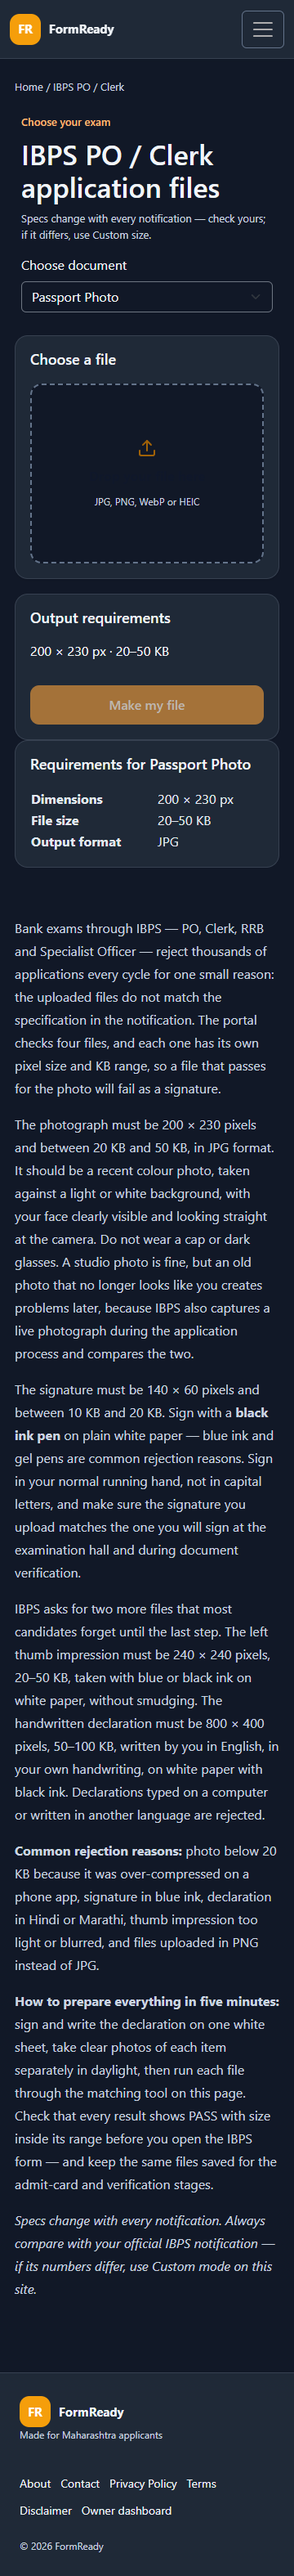
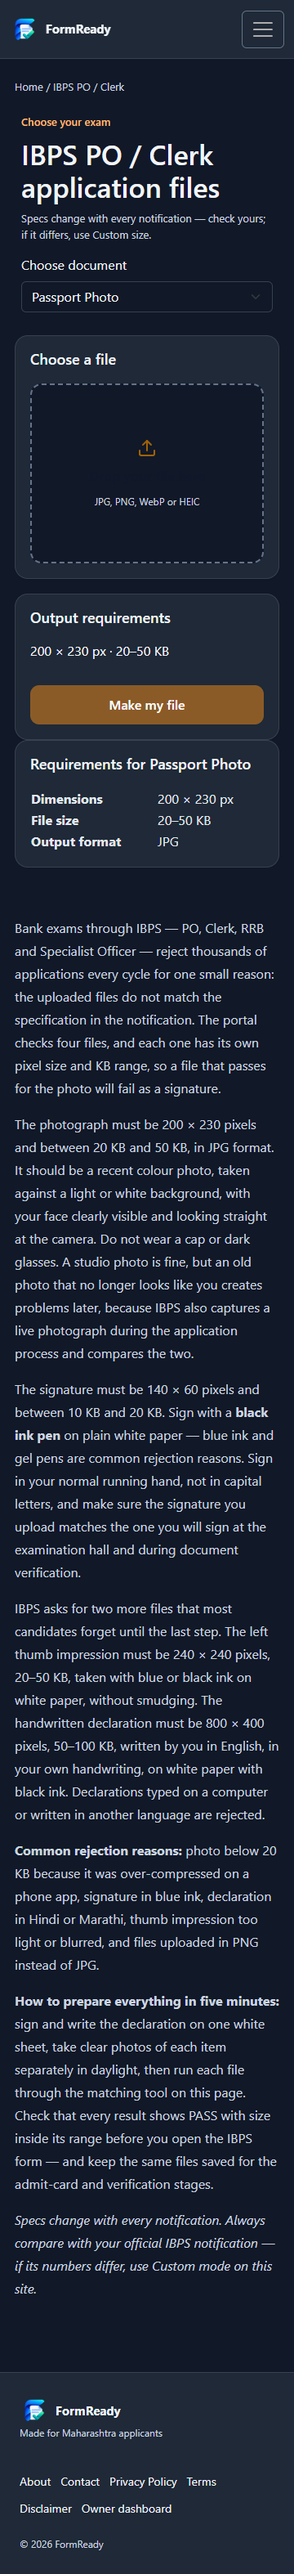
Polish dark theme and account purchase flow

diff --git a/src/App.jsx b/src/App.jsx
@@ -1,13 +1,13 @@
 import{useState,useEffect}from'react';import{BrowserRouter,Routes,Route,Link,useParams,useNavigate,useLocation}from'react-router-dom';import{FileImage,FileText,ShieldCheck,Download,Upload,Menu,Check,Languages,Scissors,Package,ArrowRight,Moon,Sun}from'lucide-react';import{presets,notice}from'./data/presets';import{strings}from'./data/strings';import guides from'./data/guides.json';import{config}from'./config';import AdSlot from'./components/AdSlot';import ConsentScripts from'./components/ConsentScripts';import Seo from'./components/Seo';import CroppableTool from'./components/CroppableTool';import ExamPack from'./components/ExamPack';import DocumentTools from'./components/DocumentTools';import PaymentButton from'./components/PaymentButton';import HomePage from'./components/HomePage';import{AccountPage,AdminPage}from'./components/AccountPages';import{supabase,accountsEnabled}from'./lib/supabase';import{setAccountAccessHint,clearAccountAccessHint}from'./lib/accessHint';
 function ScrollToTop(){const{pathname}=useLocation();useEffect(()=>{window.scrollTo({top:0,left:0,behavior:'instant'})},[pathname]);return null}
-function App(){const[lang,setLang]=useState(localStorage.getItem('fr-lang')||'mr'),[consent,setConsent]=useState(localStorage.getItem('fr-consent')),[unlock,setUnlock]=useState(JSON.parse(localStorage.getItem('fr-unlock')||'null')),[tourOpen,setTourOpen]=useState(!localStorage.getItem('fr-tour-seen-v1')),[theme,setTheme]=useState(localStorage.getItem('fr-theme')||'light');const[session,setSession]=useState(null),[authReady,setAuthReady]=useState(!accountsEnabled);const user=session?.user||null;const t=strings[lang]||strings.mr;useEffect(()=>{document.documentElement.dataset.theme=theme;localStorage.setItem('fr-theme',theme)},[theme]);useEffect(()=>{if(!supabase)return;supabase.auth.getSession().then(({data})=>{setSession(data.session);setAuthReady(true)});const{data:{subscription}}=supabase.auth.onAuthStateChange((_event,next)=>{setSession(next);setAuthReady(true);if(next){localStorage.removeItem('fr-unlock');setUnlock(null)}});return()=>subscription.unsubscribe()},[]);useEffect(()=>{if(!accountsEnabled)return;if(!session?.user){clearAccountAccessHint();return}let alive=true;fetch('/api/payments/access',{method:'POST',headers:{Authorization:`Bearer ${session.access_token}`}}).then(async response=>{if(response.ok){const value=await response.json();if(alive)setAccountAccessHint(session.user.id,value.expiresAt)}else if(response.status===401&&alive)clearAccountAccessHint()}).catch(()=>{});return()=>{alive=false}},[session?.user?.id,session?.access_token]);useEffect(()=>{if(!('serviceWorker'in navigator))return;const hadController=Boolean(navigator.serviceWorker.controller);let refreshing=false;const onControllerChange=()=>{if(hadController&&!refreshing){refreshing=true;window.location.reload()}};navigator.serviceWorker.addEventListener('controllerchange',onControllerChange);navigator.serviceWorker.register('/sw.js',{updateViaCache:'none'}).then(registration=>registration.update()).catch(()=>{});return()=>navigator.serviceWorker.removeEventListener('controllerchange',onControllerChange)},[]);function setLanguage(l){localStorage.setItem('fr-lang',l);setLang(l)}const languageName={en:'English',hi:'हिन्दी',mr:'मराठी'}[lang]||'मराठी';return <BrowserRouter><ScrollToTop/><ConsentScripts accepted={consent==='accepted'}/><Seo lang={lang}/><header className="navbar navbar-expand-lg bg-white border-bottom sticky-top app-navbar"><div className="container"><Link className="navbar-brand brand" to="/" onClick={()=>window.scrollTo({top:0,behavior:'smooth'})}><span className="logo">FR</span><span>FormReady<small>{t.tagline}</small></span></Link><button className="navbar-toggler" type="button" data-bs-toggle="collapse" data-bs-target="#primary-navigation" aria-controls="primary-navigation" aria-expanded="false" aria-label={t.menu}><span className="navbar-toggler-icon"/></button><div className="collapse navbar-collapse" id="primary-navigation"><nav className="navbar-nav ms-auto me-lg-3"><Link className="nav-link" to="/" onClick={()=>window.scrollTo({top:0,behavior:'smooth'})}>{t.home}</Link><Link className="nav-link" to="/exam-pack">{t.examPack}</Link><Link className="nav-link" to="/pricing">{t.pricing}</Link><Link className="nav-link" to="/account">{user?t.accountTitle:t.signInTitle}</Link></nav><button type="button" className="btn btn-outline-secondary theme-toggle" aria-label={theme==='dark'?t.lightMode:t.darkMode} title={theme==='dark'?t.lightMode:t.darkMode} onClick={()=>setTheme(theme==='dark'?'light':'dark')}>{theme==='dark'?<Sun size={17}/>:<Moon size={17}/>}<span>{theme==='dark'?t.lightMode:t.darkMode}</span></button><button type="button" className="btn btn-outline-secondary tour-open" onClick={()=>setTourOpen(true)}>{t.tourOpen}</button><div className="dropdown language-menu"><button className="btn language-toggle dropdown-toggle" type="button" data-bs-toggle="dropdown" aria-expanded="false" aria-label={`${t.languageLabel||'Language'}: ${languageName}`}><Languages size={17}/><span>{languageName}</span></button><ul className="dropdown-menu dropdown-menu-end language-options"><li><span className="dropdown-header">{t.languageLabel||'Language'}</span></li>{[['en','English'],['hi','हिन्दी'],['mr','मराठी']].map(([code,label])=><li key={code}><button type="button" className={`dropdown-item d-flex align-items-center justify-content-between ${lang===code?'active':''}`} lang={code} aria-current={lang===code?'true':undefined} onClick={()=>setLanguage(code)}><span>{label}</span>{lang===code&&<Check size={16}/>}</button></li>)}</ul></div></div></div></header><Routes><Route path="/" element={<HomePage t={t}/>}/><Route path="/tool/:presetId" element={<Preset t={t}/>}/><Route path="/exam-pack" element={<ExamPack t={t} unlock={unlock} setUnlock={setUnlock} session={session} user={user} authReady={authReady}/>}/><Route path="/account" element={<AccountPage user={user} session={session} supabase={supabase} t={t}/>}/><Route path="/admin" element={<AdminPage user={user} session={session} t={t}/>}/><Route path="/pricing" element={<Pricing t={t} setUnlock={setUnlock} session={session} user={user}/>}/>{['about','contact','privacy-policy','terms','disclaimer'].map(p=><Route key={p} path={'/'+p} element={<Legal page={p} t={t}/>}/>)}</Routes><Footer t={t}/>{tourOpen&&<Walkthrough t={t} close={()=>{localStorage.setItem('fr-tour-seen-v1','1');setTourOpen(false)}}/>}{!consent&&<div className="consent"><span>{t.consent}</span><button onClick={()=>{localStorage.setItem('fr-consent','accepted');setConsent('accepted')}}>{t.accept}</button><button onClick={()=>{localStorage.setItem('fr-consent','declined');setConsent('declined')}}>{t.decline}</button></div>}</BrowserRouter>}
+function App(){const[lang,setLang]=useState(localStorage.getItem('fr-lang')||'mr'),[consent,setConsent]=useState(localStorage.getItem('fr-consent')),[unlock,setUnlock]=useState(JSON.parse(localStorage.getItem('fr-unlock')||'null')),[tourOpen,setTourOpen]=useState(!localStorage.getItem('fr-tour-seen-v1')),[theme,setTheme]=useState(localStorage.getItem('fr-theme')||'light');const[session,setSession]=useState(null),[authReady,setAuthReady]=useState(!accountsEnabled);const user=session?.user||null;const t=strings[lang]||strings.mr;useEffect(()=>{document.documentElement.dataset.theme=theme;localStorage.setItem('fr-theme',theme)},[theme]);useEffect(()=>{if(!supabase)return;supabase.auth.getSession().then(({data})=>{setSession(data.session);setAuthReady(true)});const{data:{subscription}}=supabase.auth.onAuthStateChange((_event,next)=>{setSession(next);setAuthReady(true);if(next){localStorage.removeItem('fr-unlock');setUnlock(null)}});return()=>subscription.unsubscribe()},[]);useEffect(()=>{if(!accountsEnabled)return;if(!session?.user){clearAccountAccessHint();return}let alive=true;fetch('/api/payments/access',{method:'POST',headers:{Authorization:`Bearer ${session.access_token}`}}).then(async response=>{if(response.ok){const value=await response.json();if(alive)setAccountAccessHint(session.user.id,value.expiresAt)}else if(response.status===401&&alive)clearAccountAccessHint()}).catch(()=>{});return()=>{alive=false}},[session?.user?.id,session?.access_token]);useEffect(()=>{if(!('serviceWorker'in navigator))return;const hadController=Boolean(navigator.serviceWorker.controller);let refreshing=false;const onControllerChange=()=>{if(hadController&&!refreshing){refreshing=true;window.location.reload()}};navigator.serviceWorker.addEventListener('controllerchange',onControllerChange);navigator.serviceWorker.register('/sw.js',{updateViaCache:'none'}).then(registration=>registration.update()).catch(()=>{});return()=>navigator.serviceWorker.removeEventListener('controllerchange',onControllerChange)},[]);function setLanguage(l){localStorage.setItem('fr-lang',l);setLang(l)}const languageName={en:'English',hi:'हिन्दी',mr:'मराठी'}[lang]||'मराठी';return <BrowserRouter><ScrollToTop/><ConsentScripts accepted={consent==='accepted'}/><Seo lang={lang}/><header className="navbar navbar-expand-lg bg-white border-bottom sticky-top app-navbar"><div className="container"><Link className="navbar-brand brand" to="/" onClick={()=>window.scrollTo({top:0,behavior:'smooth'})}><img className="brand-logo" src="/favicon.png" alt="" width="40" height="40"/><span>FormReady<small>{t.tagline}</small></span></Link><button className="navbar-toggler" type="button" data-bs-toggle="collapse" data-bs-target="#primary-navigation" aria-controls="primary-navigation" aria-expanded="false" aria-label={t.menu}><span className="navbar-toggler-icon"/></button><div className="collapse navbar-collapse" id="primary-navigation"><nav className="navbar-nav ms-auto me-lg-3"><Link className="nav-link" to="/" onClick={()=>window.scrollTo({top:0,behavior:'smooth'})}>{t.home}</Link><Link className="nav-link" to="/exam-pack">{t.examPack}</Link><Link className="nav-link" to="/pricing">{t.pricing}</Link><Link className="nav-link" to="/account">{user?t.accountTitle:t.signInTitle}</Link></nav><button type="button" className="btn btn-outline-secondary theme-toggle" aria-label={theme==='dark'?t.lightMode:t.darkMode} title={theme==='dark'?t.lightMode:t.darkMode} onClick={()=>setTheme(theme==='dark'?'light':'dark')}>{theme==='dark'?<Sun size={17}/>:<Moon size={17}/>}<span>{theme==='dark'?t.lightMode:t.darkMode}</span></button><button type="button" className="btn btn-outline-secondary tour-open" onClick={()=>setTourOpen(true)}>{t.tourOpen}</button><div className="dropdown language-menu"><button className="btn language-toggle dropdown-toggle" type="button" data-bs-toggle="dropdown" aria-expanded="false" aria-label={`${t.languageLabel||'Language'}: ${languageName}`}><Languages size={17}/><span>{languageName}</span></button><ul className="dropdown-menu dropdown-menu-end language-options"><li><span className="dropdown-header">{t.languageLabel||'Language'}</span></li>{[['en','English'],['hi','हिन्दी'],['mr','मराठी']].map(([code,label])=><li key={code}><button type="button" className={`dropdown-item d-flex align-items-center justify-content-between ${lang===code?'active':''}`} lang={code} aria-current={lang===code?'true':undefined} onClick={()=>setLanguage(code)}><span>{label}</span>{lang===code&&<Check size={16}/>}</button></li>)}</ul></div></div></div></header><Routes><Route path="/" element={<HomePage t={t}/>}/><Route path="/tool/:presetId" element={<Preset t={t}/>}/><Route path="/exam-pack" element={<ExamPack t={t} unlock={unlock} setUnlock={setUnlock} session={session} user={user} authReady={authReady}/>}/><Route path="/account" element={<AccountPage user={user} session={session} supabase={supabase} t={t}/>}/><Route path="/admin" element={<AdminPage user={user} session={session} t={t}/>}/><Route path="/pricing" element={<Pricing t={t} setUnlock={setUnlock} session={session} user={user}/>}/>{['about','contact','privacy-policy','terms','disclaimer'].map(p=><Route key={p} path={'/'+p} element={<Legal page={p} t={t}/>}/>)}</Routes><Footer t={t}/>{tourOpen&&<Walkthrough t={t} close={()=>{localStorage.setItem('fr-tour-seen-v1','1');setTourOpen(false)}}/>}{!consent&&<div className="consent"><span>{t.consent}</span><button onClick={()=>{localStorage.setItem('fr-consent','accepted');setConsent('accepted')}}>{t.accept}</button><button onClick={()=>{localStorage.setItem('fr-consent','declined');setConsent('declined')}}>{t.decline}</button></div>}</BrowserRouter>}
 function Preset({t}){const{presetId:id}=useParams(),preset=presets.find(p=>p.id===id),[slot,setSlot]=useState(0);return <main className="container app-main"><p className="crumb"><Link to="/">{t.homeCrumb}</Link> / {t[`preset_${preset?.id}`]||preset?.name||id}</p>{id==='pdf'?<DocumentTools t={t}/>:!preset&&id!=='custom'?<section><h1>{t.toolNotFound}</h1><Link to="/">{t.returnHome}</Link></section>:<><section className="tool-heading row g-3 align-items-end"><div className="col-lg"><span className="eyebrow">{t.chooseExam}</span><h1>{id==='custom'?t.customTool:`${t[`preset_${preset?.id}`]||preset?.name} ${t.applicationFiles}`}</h1><p>{t.notice}</p></div><label className="col-lg-4">{t.chooseDocument}<select className="form-select" value={slot} onChange={e=>setSlot(+e.target.value)}>{(preset?.slots||[{id:'custom',label:'Image'}]).map((s,i)=><option key={s.id} value={i}>{t[`doc_${s.id}`]||s.label}</option>)}</select></label></section>{preset?.slots[slot]?.id==='certificate'?<DocumentTools t={t} target={preset.slots[slot].maxKB}/>:<CroppableTool t={t} spec={preset?.slots[slot]}/>}<AdSlot slot="results-below" label={t.ad}/>{preset&&<SpecTable p={preset} slot={slot} t={t}/>}{preset&&<Guide p={preset}/>}<AdSlot slot="seo-article-mid" label={t.ad}/></>}</main>}
 function SpecTable({p,slot,t}){const s=p.slots[slot];return <section className="card spec-summary"><h2>{t.requirementsFor} {t[`doc_${s.id}`]||s.label}</h2><table><tbody><tr><th>{t.dimensions}</th><td>{s.width} × {s.height} px</td></tr><tr><th>{t.fileSize}</th><td>{s.minKB}–{s.maxKB} KB</td></tr><tr><th>{t.outputFormat}</th><td>JPG</td></tr></tbody></table></section>}
 function Guide({p}){const blocks=(guides[p?.id]||'').split(/\n\s*\n/).filter(Boolean);function inline(text){return text.split(/(\*\*.*?\*\*|\*.*?\*)/g).map((part,i)=>part.startsWith('**')&&part.endsWith('**')?<strong key={i}>{part.slice(2,-2)}</strong>:part.startsWith('*')&&part.endsWith('*')?<em key={i}>{part.slice(1,-1)}</em>:part)}return <article className="guide">{blocks.map((b,i)=><p key={i}>{inline(b.replace(/\n/g,' '))}</p>)}</article>}
 function PdfTool({t,target=200}){const[file,setFile]=useState(null),[result,setResult]=useState(null),[kb,setKb]=useState(target),[err,setErr]=useState('');async function run(){try{const{compressPdf}=await import('./lib/pdfTools');const r=await compressPdf(file,+kb);setResult(r);setErr(r.pass?'':`${t.targetWas} ${kb} KB.`)}catch{setErr(t.couldNotOpenPdf)}}return <section className="card pdf-tool"><h2>{t.pdfTitle}</h2><p>{t.pdfIntro}</p><label>{t.chooseFile}<input className="form-control" type="file" accept="application/pdf" onChange={e=>setFile(e.target.files[0])}/></label><label>{t.targetSize}<input className="form-control" type="number" value={kb} onChange={e=>setKb(e.target.value)}/></label><button className="primary btn btn-warning" disabled={!file} onClick={run}>{t.compressPdf}</button>{result&&<p className={result.pass?'pass':'error'}>{t.before} {((file.size)/1024).toFixed(1)} KB → {t.after} {result.kb.toFixed(1)} KB {err}</p>}{result&&<a href={URL.createObjectURL(result.blob)} download="compressed.pdf">{t.download}</a>}</section>}
 const legalKey={'about':'about','contact':'contact','privacy-policy':'privacy','terms':'terms','disclaimer':'disclaimer'};
 function Legal({page,t}){const key=legalKey[page]||'about',title=t[`${key}Title`]||t[key],body=accountsEnabled&&key==='privacy'?t.accountPrivacyBody:accountsEnabled&&key==='terms'?t.accountTermsBody:t[`${key}Body`]||'',summary=accountsEnabled&&key==='privacy'?t.accountPrivacySummary:accountsEnabled&&key==='terms'?t.accountTermsSummary:t[`${key}Summary`];return <main className="legal container"><span className="eyebrow">FormReady</span><h1>{title}</h1>{summary&&<p className="legal-summary">{summary}</p>}<p>{body}</p>{page==='contact'&&/^\d{10,15}$/.test(config.whatsappNumber)&&<a className="primary btn btn-warning" href={`https://wa.me/${config.whatsappNumber}`} target="_blank" rel="noreferrer">{t.whatsappUs}</a>}{page==='privacy-policy'&&<><h2>{t.localStorageTitle}</h2><p>{accountsEnabled?t.accountLocalStorageBody:t.localStorageBody}</p><h2>{t.paymentTitle}</h2><p>{accountsEnabled?t.accountPaymentBody:t.paymentBody}</p><h2>{t.adsAnalyticsTitle}</h2><p>{t.adsAnalyticsBody}</p></>}</main>}
-function Pricing({t,setUnlock,session,user}){const navigate=useNavigate();const plans=[{id:'examPack',name:t.examPackPrice,price:config.prices.examPack,term:t.dayAccess},{id:'seasonPass',name:t.seasonPass,price:config.prices.seasonPass,term:t.sixtyDay}];return <main className="container pricing-page"><section className="hero compact"><span className="eyebrow">{t.pricingEyebrow}</span><h1>{t.pricingTitle}</h1><p>{t.pricingIntro}</p></section><div className="pricing-grid row row-cols-1 row-cols-md-2 row-cols-xl-4 g-3"><div className="col"><div className="card price h-100"><h2>{t.free}</h2><strong>₹0</strong><p>{t.singleResize}</p><Link className="primary btn btn-warning" to="/">{t.useFree}</Link></div></div>{plans.map(plan=><div className="col" key={plan.id}><div className="card price h-100"><h2>{plan.name}</h2><strong>₹{plan.price}</strong><p>{plan.term}</p><PaymentButton plan={plan.id} t={t} setUnlock={setUnlock} session={session} user={user} onSuccess={()=>navigate('/exam-pack')}/></div></div>)}<div className="col"><div className="card price h-100"><h2>{t.shopPlan}</h2><strong>₹{config.prices.shopPlan}<small>{t.perMonth}</small></strong><p>{t.shopPlanContact}</p><button className="secondary btn btn-outline-secondary" type="button" disabled>{t.paymentComingSoon}</button></div></div></div><section className="card payment"><h2>{t.paymentInformationTitle}</h2><p>{accountsEnabled?t.accountPaymentBody:t.paymentInformationBody}</p><p>{t.paymentPrivacy}</p></section></main>}function Footer({t}){return <><AdSlot slot="footer-above" label={t.ad}/><footer><div><Link className="brand" to="/"><span className="logo">FR</span>FormReady</Link><p>{t.madeFor}</p></div><div className="footer-links">{[['about',t.about],['contact',t.contact],['privacy-policy',t.privacy],['terms',t.terms],['disclaimer',t.disclaimer],['admin',t.adminTitle]].map(([p,n])=><Link key={p} to={'/'+p}>{n}</Link>)}</div><small>{t.copyright}</small></footer></>}
+function Pricing({t,setUnlock,session,user}){const navigate=useNavigate();const plans=[{id:'examPack',name:t.examPackPrice,price:config.prices.examPack,term:t.dayAccess},{id:'seasonPass',name:t.seasonPass,price:config.prices.seasonPass,term:t.sixtyDay}];return <main className="container pricing-page"><section className="hero compact"><span className="eyebrow">{t.pricingEyebrow}</span><h1>{t.pricingTitle}</h1><p>{t.pricingIntro}</p></section><div className="pricing-grid row row-cols-1 row-cols-md-2 row-cols-xl-4 g-3"><div className="col"><div className="card price h-100"><h2>{t.free}</h2><strong>₹0</strong><p>{t.singleResize}</p><Link className="primary btn btn-warning" to="/">{t.useFree}</Link></div></div>{plans.map(plan=><div className="col" key={plan.id}><div className="card price h-100"><h2>{plan.name}</h2><strong>₹{plan.price}</strong><p>{plan.term}</p><PaymentButton plan={plan.id} t={t} setUnlock={setUnlock} session={session} user={user} onSuccess={()=>navigate('/exam-pack')}/></div></div>)}<div className="col"><div className="card price h-100"><h2>{t.shopPlan}</h2><strong>₹{config.prices.shopPlan}<small>{t.perMonth}</small></strong><p>{t.shopPlanContact}</p><button className="secondary btn btn-outline-secondary" type="button" disabled>{t.paymentComingSoon}</button></div></div></div><section className="card payment"><h2>{t.paymentInformationTitle}</h2><p>{accountsEnabled?t.accountPaymentBody:t.paymentInformationBody}</p><p>{t.paymentPrivacy}</p></section></main>}function Footer({t}){return <><AdSlot slot="footer-above" label={t.ad}/><footer><div><Link className="brand" to="/"><img className="brand-logo" src="/favicon.png" alt="" width="40" height="40"/>FormReady</Link><p>{t.madeFor}</p></div><div className="footer-links">{[['about',t.about],['contact',t.contact],['privacy-policy',t.privacy],['terms',t.terms],['disclaimer',t.disclaimer],['admin',t.adminTitle]].map(([p,n])=><Link key={p} to={'/'+p}>{n}</Link>)}</div><small>{t.copyright}</small></footer></>}
 export default App;
 
 function Walkthrough({t,close}){return <div className="tour-overlay"><section className="tour-dialog card" role="dialog" aria-modal="true" aria-labelledby="tour-title"><span className="eyebrow">FormReady</span><h2 id="tour-title">{t.tourTitle}</h2><p>{t.tourIntro}</p><ol><li>{t.tourStepExam}</li><li>{t.tourStepChoose}</li><li>{t.tourStepCheck}</li></ol><button className="primary btn btn-warning" data-tour-dismiss onClick={close}>{t.tourDismiss}</button></section></div>}

diff --git a/src/style.css b/src/style.css
@@ -58,3 +58,8 @@ body{min-height:100vh;color:var(--fr-text)}
 :root[data-theme=dark] .secondary{background:#1f2937!important;color:#f1f5f9!important;border-color:#64748b!important}
 :root[data-theme=dark] button.primary.btn.btn-warning:disabled,:root[data-theme=dark] a.primary.btn.btn-warning.disabled{--bs-btn-disabled-bg:#8b5b27;--bs-btn-disabled-color:#fff;--bs-btn-disabled-border-color:#8b5b27;background:#8b5b27!important;border-color:#8b5b27!important;color:#fff!important;opacity:1!important}
 :root:not([data-theme=dark]) button.primary.btn.btn-warning:disabled,:root:not([data-theme=dark]) a.primary.btn.btn-warning.disabled{--bs-btn-disabled-bg:#d6a05e;--bs-btn-disabled-color:#35210c;--bs-btn-disabled-border-color:#d6a05e;background:#d6a05e!important;border-color:#d6a05e!important;color:#35210c!important;opacity:1!important}
+
+.consent button{background:#b45309;color:#fff}.consent button:hover{background:#92400e}
+
+.brand-logo{display:block;flex:0 0 40px;width:40px;height:40px;object-fit:contain}.brand{gap:8px}
+@media(max-width:575px){.brand-logo{width:36px;height:36px;flex-basis:36px}}

diff --git a/SUPABASE-SETUP.md b/SUPABASE-SETUP.md
@@ -1,0 +1,39 @@
+# Connect FormReady to Supabase
+
+The app's account, payment history, entitlements, and owner dashboard use Supabase Auth and Postgres. The app does not upload the user's document files.
+
+## 1. Create the project and database tables
+
+1. Create a Supabase project and keep its database password in a password manager.
+2. Open **SQL Editor → New query** and run [`supabase/migrations/202610250001_account_entitlements.sql`](supabase/migrations/202610250001_account_entitlements.sql) in full.
+3. In **Project Settings → API**, copy the Project URL and the publishable/anon key. Do not put a secret or service-role key in a `VITE_` variable.
+
+## 2. Configure email sign-in
+
+1. In **Authentication → URL Configuration**, set the Site URL to `https://formready-xi.vercel.app`.
+2. Add `https://formready-xi.vercel.app/**` to the allowed redirect URLs. Add `http://localhost:5173/**` for local development and the exact Vercel preview URL patterns you use.
+3. In **Authentication → Providers → Email**, enable email sign-in/magic links. Configure a production SMTP provider before opening registration to the public; the default test email service is rate-limited.
+
+## 3. Add Vercel environment variables
+
+Set these for Production (and Preview if needed), then redeploy:
+
+| Variable | Value / use |
+| --- | --- |
+| `VITE_SUPABASE_URL` | Supabase Project URL; browser-side Auth client |
+| `VITE_SUPABASE_ANON_KEY` | Supabase anon/publishable key; safe to expose with the migration's RLS policies |
+| `SUPABASE_URL` | Same Project URL; server functions |
+| `SUPABASE_ANON_KEY` | Same anon/publishable key; server-side user token validation |
+| `SUPABASE_SECRET_KEY` | Supabase secret key (or legacy `SUPABASE_SERVICE_ROLE_KEY`); server only, never prefix with `VITE_` |
+| `ADMIN_USER_IDS` | Comma-separated UUID(s) from Supabase Auth for the site owner/admin account(s) |
+
+Copy `.env.example` to `.env.local` for local work and fill the same values there. Never commit `.env.local` or send secret values in chat.
+
+## 4. Confirm the account and access flow
+
+1. Open the deployed site and choose **Sign in**. Submit your email and follow the magic link.
+2. In Supabase **Authentication → Users**, copy your account's UUID into `ADMIN_USER_IDS` in Vercel. Redeploy; the `/admin` route is authorized by this UUID, not by an email address supplied by the browser.
+3. Confirm the account page loads and that a signed-out plan button sends the visitor to `/account?next=%2Fpricing`. Completing its magic link returns them to pricing.
+4. Configure Razorpay and its webhook separately before accepting real payments; Supabase credentials alone do not enable checkout. Use Razorpay Test Mode first.
+
+Keep Supabase secret/service-role credentials only in Vercel server environment settings and local untracked environment files. The browser key is public by design; row-level security in the migration is what prevents users from reading or changing other accounts' records.

diff --git a/TEST-REPORT.md b/TEST-REPORT.md
@@ -117,3 +117,11 @@ Razorpay Standard Checkout is wired through Vercel Functions at `api/payments/or
 - Document tools: `npm run test:documents` **PASS**; image-to-PDF made 2 pages (6,699.5 KB), merge made 4 pages (13,398.4 KB), dark-mode persistence also passed with zero errors.
 - Build: `npm run build` **PASS**. Main JS **511.85 KB / 153.11 KB gzip**, CSS **255.46 KB / 36.87 KB gzip**; lazy chunks: HEIC **1,352.13 KB / 344.71 KB gzip**, PDF module **430.17 KB / 129.28 KB gzip**, PDF tools **2.06 KB / 1.03 KB gzip**, JSZip **95.93 KB / 28.47 KB gzip**. The PDF worker is **1,264.34 KB**. Vite still warns about large HEIC/worker chunks.
 - Admin boundaries: dashboard exposes account/payment/pass records and auditable administrative actions; user-uploaded documents remain browser-local and are not visible to the owner. These pages are ready for configured deployment, but real login/payment/admin operation still depends on owner Supabase/Razorpay configuration and applying the checked-in migration. The products are fixed-duration one-time passes, not recurring auto-renew subscriptions.
+
+
+## Dark mode, payment entry, and FormReady logo follow-up (2026-10-25)
+
+- Route audit: `npm run test:routes` checks all 20 routes in light and dark themes at 360, 768, and 1440 px (120 page/theme/viewport combinations), with direct-load, heading/SEO, page-canvas, no-overflow, no-page-error, and all-visible-button contrast assertions. The signed-out Exam Pack and Season Pass CTAs point to `/account?next=%2Fpricing`; their configured magic-link redirect returns to pricing.
+- Visual result: home hero/example align side by side at desktop and stack at mobile. Dark page background covers the full document including gaps and short-page footer; cards, inputs, tables, navigation, secondary actions, and primary actions remain readable. Screenshot evidence: `test-shots/dark-home-360.png`, `dark-home-768.png`, `dark-home-1440.png`, corresponding `dark-tool-*.png` and `dark-pricing-*.png`; light comparison screenshots use `light-*.png`. All visible button text/background pairs measured at least 4.5:1 contrast after transitions settle.
+- Brand: the supplied transparent PNG is used as the 64×64 browser favicon, 180×180 app icon, and header/footer logo. Route test decodes both icons and confirms the visible brand mark.
+- Build: `npm run build` passes. Current output: main JS **512.19 KB / 153.14 KB gzip**, CSS **259.00 KB / 37.54 KB gzip**, lazy HEIC **1,352.13 KB / 344.71 KB gzip**, PDF **430.17 KB / 129.28 KB gzip**, worker **1,264.34 KB**. The pre-existing worker/HEIC size warning remains. Supabase owner setup steps are documented in `SUPABASE-SETUP.md`.
